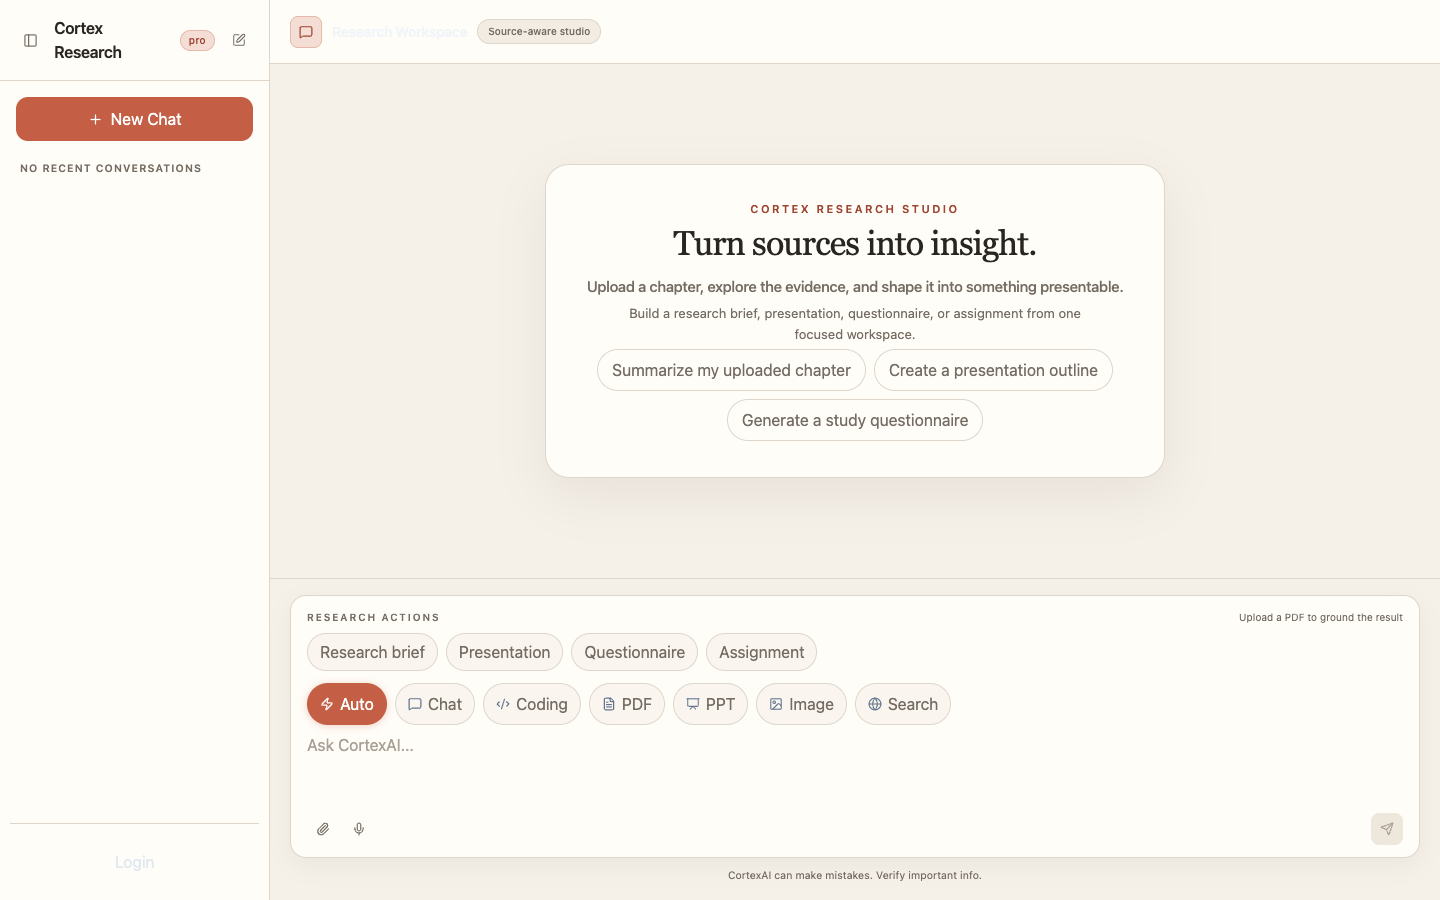
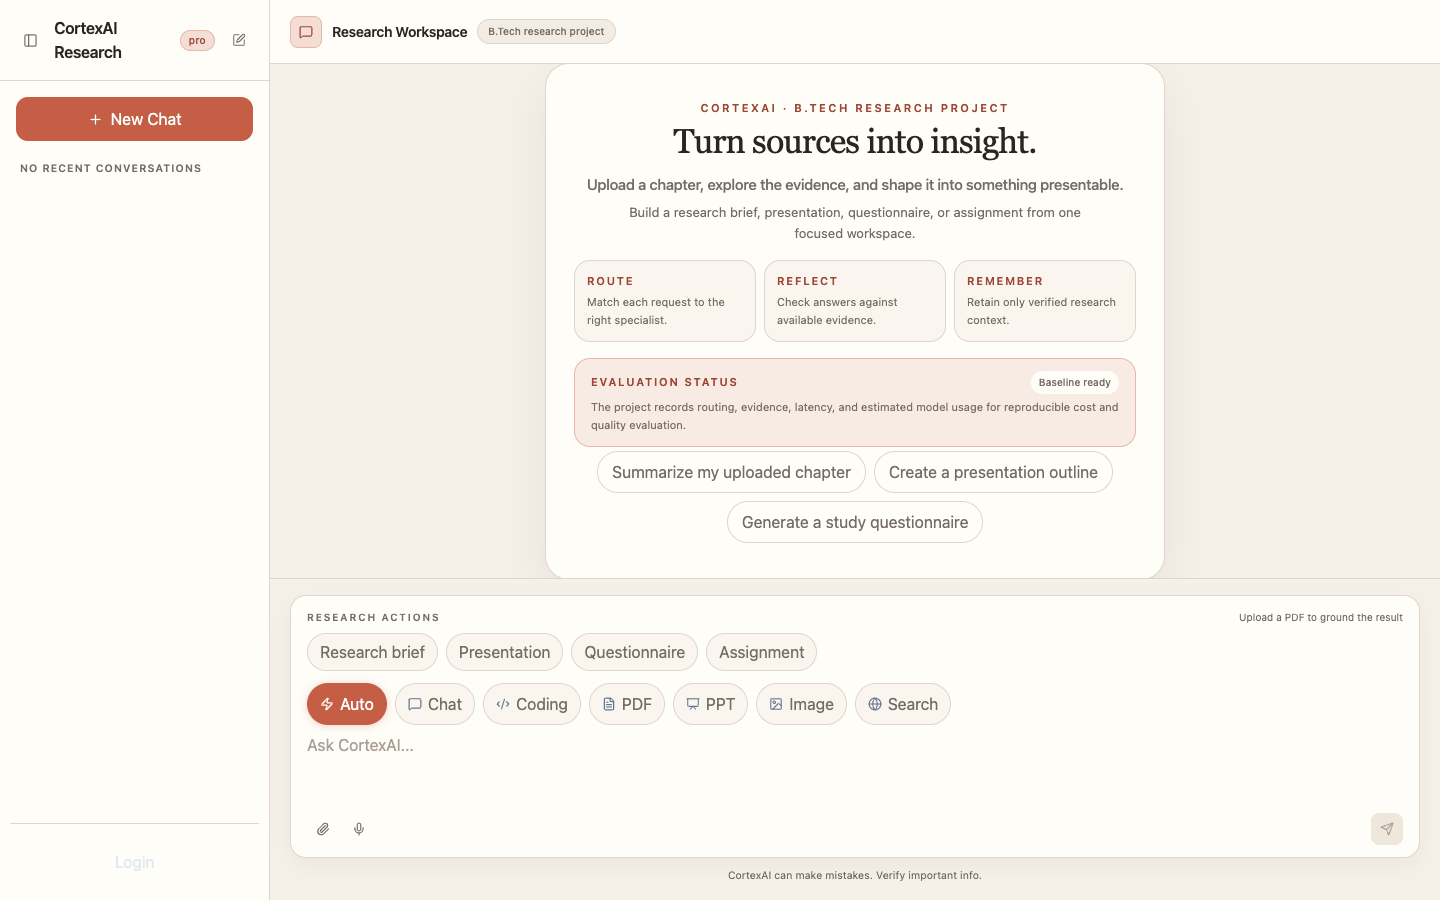
Present CortexAI as academic research project

diff --git a/frontend/src/components/MessageList.jsx b/frontend/src/components/MessageList.jsx
@@ -117,7 +117,7 @@ export default function MessageList() {
         <div className="h-full flex flex-col items-center justify-center gap-5 text-center px-6">
           <div className="w-full max-w-[620px] rounded-3xl border border-[var(--line)] bg-[var(--paper-strong)] px-7 py-9 shadow-[0_18px_50px_rgba(74,54,38,0.08)]">
           <p className="text-[11px] font-semibold uppercase tracking-[0.22em] text-[var(--accent-dark)]">
-            Cortex Research Studio
+            CortexAI · B.Tech Research Project
           </p>
           <div className="flex flex-col gap-1.5">
           <h1 className="research-display text-[34px] font-normal text-[var(--ink)] tracking-tight">
@@ -128,6 +128,32 @@ export default function MessageList() {
           </h3>
           <p className="text-[13px] text-[var(--muted)] max-w-[470px] mx-auto leading-relaxed">
             Build a research brief, presentation, questionnaire, or assignment from one focused workspace.
+          </p>
+        </div>
+        <div className="grid grid-cols-1 sm:grid-cols-3 gap-2 mt-4 text-left">
+          {[
+            ["Route", "Match each request to the right specialist."],
+            ["Reflect", "Check answers against available evidence."],
+            ["Remember", "Retain only verified research context."],
+          ].map(([title, description]) => (
+            <div key={title} className="rounded-2xl border border-[var(--line)] bg-[#faf6ef] px-3 py-3">
+              <p className="text-[11px] font-semibold uppercase tracking-[0.16em] text-[var(--accent-dark)]">{title}</p>
+              <p className="mt-1 text-[11px] leading-relaxed text-[var(--muted)]">{description}</p>
+            </div>
+          ))}
+        </div>
+        <div className="mt-4 rounded-2xl border border-[#e6b9aa] bg-[#f7ebe4] px-4 py-3 text-left">
+          <div className="flex items-center justify-between gap-3">
+            <p className="text-[11px] font-semibold uppercase tracking-[0.16em] text-[var(--accent-dark)]">
+              Evaluation status
+            </p>
+            <span className="rounded-full bg-[var(--paper-strong)] px-2 py-1 text-[10px] font-medium text-[var(--muted)]">
+              Baseline ready
+            </span>
+          </div>
+          <p className="mt-1 text-[11px] leading-relaxed text-[var(--muted)]">
+            The project records routing, evidence, latency, and estimated model
+            usage for reproducible cost and quality evaluation.
           </p>
         </div>
         <div className="flex flex-wrap justify-center gap-2 mt-1 max-w-[620px]">
@@ -167,6 +193,7 @@ export default function MessageList() {
                 content={msg.content}
                 images={msg?.images || []}
                 files={msg?.files || []}
+                trace={msg?.trace}
               />
             </motion.div>
           ))}

diff --git a/frontend/src/components/MessageBubble.jsx b/frontend/src/components/MessageBubble.jsx
@@ -6,7 +6,7 @@ import { Prism as SyntaxHighlighter } from "react-syntax-highlighter";
 import { oneDark } from "react-syntax-highlighter/dist/esm/styles/prism";
 import { Copy, Check } from "lucide-react";
 
-function MessageBubble({ role, content, images = [], files = [] }) {
+function MessageBubble({ role, content, images = [], files = [], trace }) {
   const isUser = role === "user";
   const [lightboxSrc, setLightboxSrc] = useState(null);
   const [copiedCode, setCopiedCode] = useState("");
@@ -80,6 +80,29 @@ function MessageBubble({ role, content, images = [], files = [] }) {
               />
             ))}
           </div>
+        )}
+        {!isUser && trace && (
+          <details className="mb-3 rounded-xl border border-[var(--line)] bg-[#f7efe7] px-3 py-2 text-xs text-[var(--muted)]">
+            <summary className="cursor-pointer font-semibold text-[var(--ink)]">
+              Evaluation details
+            </summary>
+            <div className="mt-2 grid grid-cols-2 gap-2">
+              <span>Specialist: {trace.routing?.chosen?.agent || "conversation"}</span>
+              <span>Model tier: {trace.routing?.chosen?.tier || "baseline"}</span>
+              <span>Response time: {Math.round(trace.execution?.latencyMs || 0)} ms</span>
+              <span>Estimated usage: ${(trace.execution?.costUsd || 0).toFixed(5)}</span>
+              {trace.verification && (
+                <span className="col-span-2">
+                  Evidence confidence: {Math.round(trace.verification.faithfulness * 100)}%
+                </span>
+              )}
+              {trace.gate && (
+                <span className="col-span-2">
+                  Evidence decision: {trace.gate.decision}
+                </span>
+              )}
+            </div>
+          </details>
         )}
         <ReactMarkdown
           remarkPlugins={[remarkGfm]}

diff --git a/frontend/src/components/Navbar.jsx b/frontend/src/components/Navbar.jsx
@@ -20,11 +20,11 @@ export default function Navbar() {
         <div className="flex items-center justify-center w-8 h-8 rounded-lg bg-[#f3ddd4] border border-[#e6b9aa]">
         <MessageSquare size={14} className="text-[var(--accent-dark)]" />
         </div>
-        <h2 className="text-[14px] font-semibold text-slate-100 tracking-tight">
+        <h2 className="text-[14px] font-semibold text-[var(--ink)] tracking-tight">
           {selectedConversation?.title || "Research Workspace"}
         </h2>
         <span className="text-[10px] font-medium text-[var(--muted)] bg-[#f2ece3] border border-[var(--line)] px-2.5 py-1 rounded-full">
-          {messages.length ? `${messages.length} messages` : "Source-aware studio"}
+          {messages.length ? `${messages.length} messages` : "B.Tech research project"}
         </span>
       </div>
 

diff --git a/frontend/src/components/Sidebar.jsx b/frontend/src/components/Sidebar.jsx
@@ -201,7 +201,7 @@ export default function Sidebar() {
         </button>
 
         <span className="text-[16px] font-semibold text-[var(--ink)] tracking-tight flex-1">
-          Cortex Research
+          CortexAI Research
         </span>
 
         <span className="text-[10px] font-medium text-[var(--accent-dark)] bg-[#f3ddd4] border border-[#e6b9aa] px-2 py-0.5 rounded-full tracking-wide">

diff --git a/README.md b/README.md
@@ -1,10 +1,29 @@
-# CortexAI Research Studio
+# CortexAI — B.Tech Research Project
 
-CortexAI is a polished, source-aware workspace for learning, research, and
-creative production. It helps users move from a question or uploaded chapter
-to a clear answer, a structured study resource, or a finished presentation.
+CortexAI is a B.Tech research project investigating a closed-loop,
+cost-aware, evidence-sensitive multi-agent AI system. The application is also
+presented as a polished source-aware workspace: users can move from a question
+or uploaded chapter to a grounded answer, structured study resource, or
+finished presentation.
 
 > **Turn sources into insight.**
+
+## Research contribution
+
+The project studies the **Route, Reflect, Remember (R3)** loop:
+
+1. **Route** selects the most suitable specialist workflow and model tier.
+2. **Reflect** evaluates answer claims against retrieved evidence.
+3. **Remember** stores only information that passes the verification filter.
+
+The same faithfulness signal is intentionally reused for answer gating, routing
+reward, and memory writes. This creates a measurable closed loop instead of an
+open-ended supervisor that only generates responses.
+
+The system also instruments estimated token usage, model cost, latency,
+specialist selection, evidence confidence, gate decisions, and memory writes.
+Those fields support the cost-awareness and benchmark methodology without
+claiming results that have not yet been measured.
 
 ## What users can do
 
@@ -245,7 +264,7 @@ npm run dev
 
 Open `http://localhost:5173`.
 
-## Verification
+## Verification and benchmark status
 
 ```bash
 npm --prefix backend/services/agent run test:r3
@@ -254,8 +273,29 @@ git diff --check
 ```
 
 The current implementation has passing automated checks and a successful
-production frontend build. Additional technical evaluation material remains
-available in the private project handover under `docs/`.
+production frontend build:
+
+- 5 R3 unit tests pass;
+- supervisor graph compilation passes;
+- frontend production build passes;
+- backend syntax validation passes;
+- zero-cost evaluation smoke harness passes.
+
+The benchmark harness is designed to compare:
+
+- `always_strongest`;
+- `llm_router`;
+- `router_only`;
+- `verifier_only`;
+- `memory_only`;
+- `full_r3`.
+
+Planned metrics include routing accuracy, macro-F1, estimated cost per query,
+p95 latency, evidence faithfulness, answer relevance, context relevance,
+abstention rate, and memory recall. A labelled CortexBench/CortexRoute dataset
+and real trace corpus are not yet included, so quantitative benchmark results
+remain **TBD — run eval**. The project deliberately does not fabricate cost
+savings or quality improvements.
 
 ## Deployment
 
@@ -279,6 +319,8 @@ Source repository:
 - [`docs/HANDOVER_SYSTEM.md`](docs/HANDOVER_SYSTEM.md) — system architecture
 - [`docs/HANDOVER_RUNTIME.md`](docs/HANDOVER_RUNTIME.md) — setup and operations
 - [`docs/HANDOVER_FRONTEND.md`](docs/HANDOVER_FRONTEND.md) — UI and interaction details
+- [`docs/HANDOVER_R3.md`](docs/HANDOVER_R3.md) — Route, Reflect, Remember implementation
+- [`docs/HANDOVER_EVALUATION.md`](docs/HANDOVER_EVALUATION.md) — benchmark methodology and status
 - [`docs/SCREENSHOTS.md`](docs/SCREENSHOTS.md) — screenshot provenance
 
 ## Security
